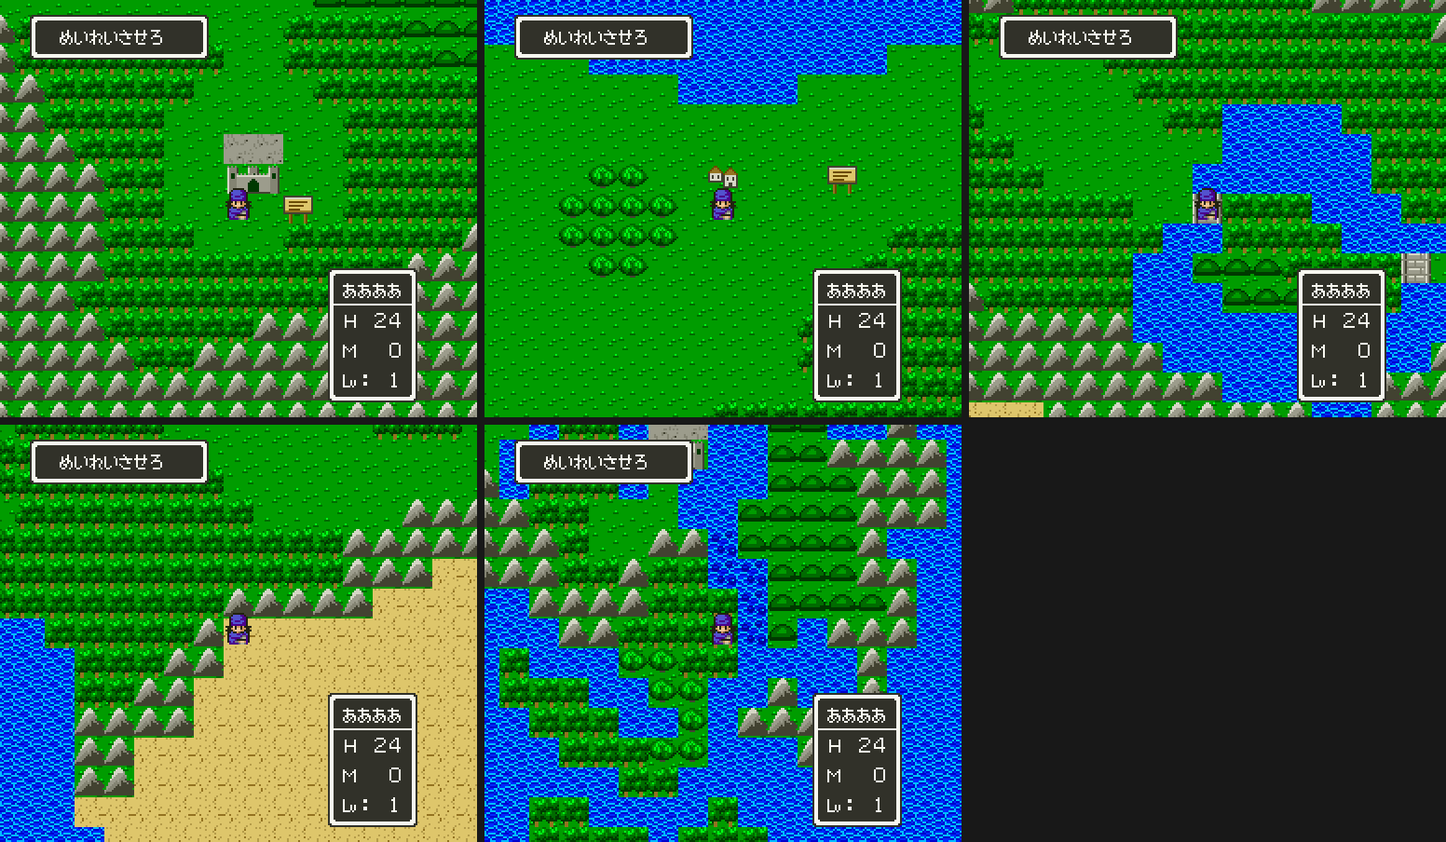
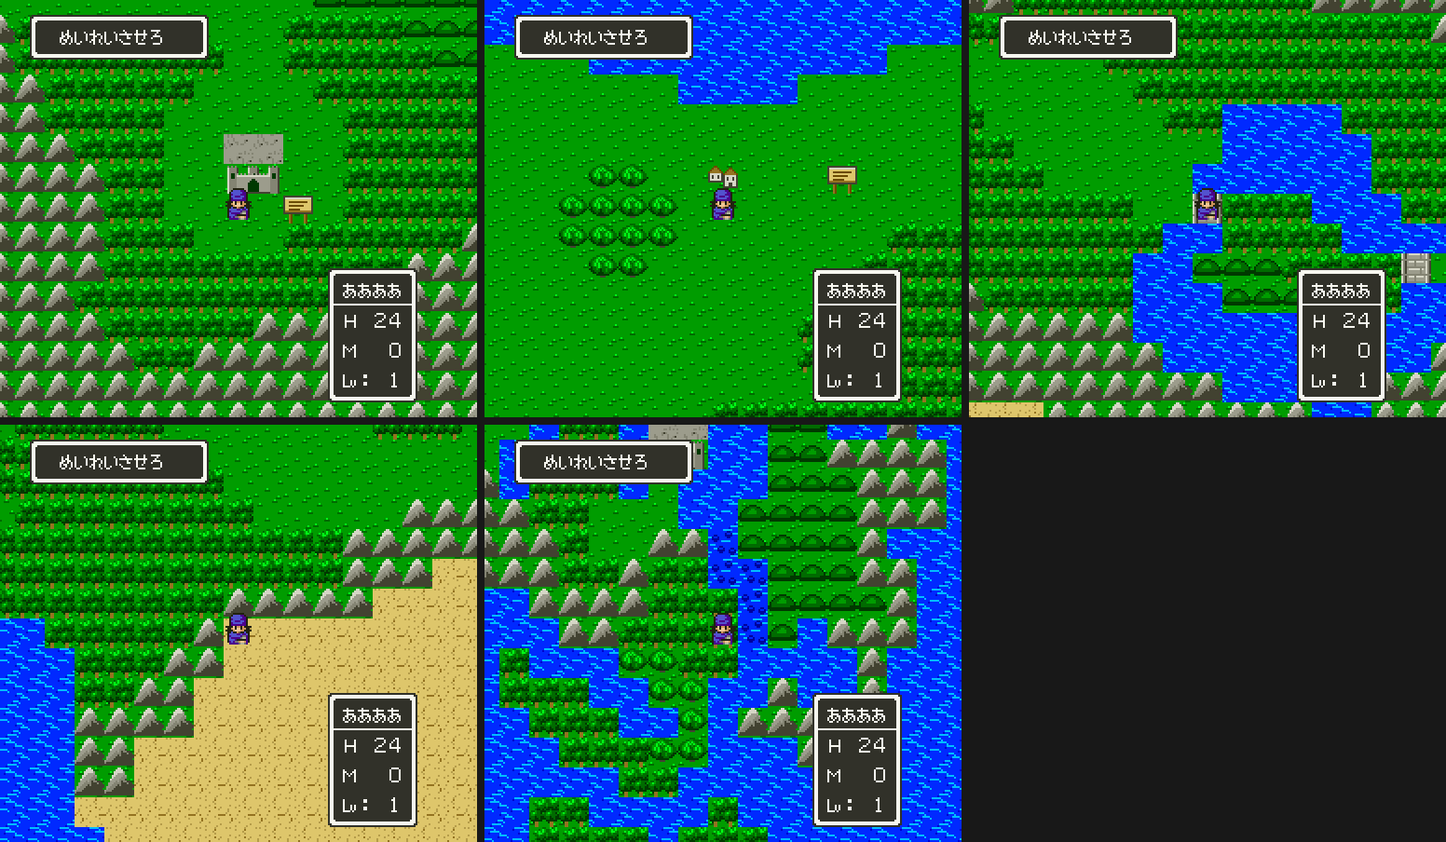
feat: FC 필드 바다를 DQ4 물결로(움직이는 바다 원본 01:A719 제자리, 세 세계 같은 원본)
dq4fieldgfx.water 가 water0 에셋을 2번 줄 색 11~13 으로 골라 water_files 로 넣고,
dq4fieldcheck 은 VRAM 바다 타일을 그 세계의 16벌(dq5gfx.water_frames)과 견준다.

diff --git a/sfc/dq4/tools/dq4fieldcheck.py b/sfc/dq4/tools/dq4fieldcheck.py
@@ -9,8 +9,9 @@ walks out of 01/00 into world 0:
            reef, signboard, field 3's hills) keeps the party on the neighbour
   gfx      stand at the views, save and dump VRAM and CGRAM: the BG tilemap of both layers around the party is the
            blocks of dq4fieldport.world with dq4fieldgfx's tiles and palette nibbles; the field tiles in VRAM are
-           dq4fieldgfx's (the sea pairs 4·5 and 20·21 turned by the same pixels, as 01:C790 turns them, in worlds
-           0 and 1; the animated 454-459 left out); CGRAM lines 2 and 3 colours 1-13 are one of the world's sets
+           dq4fieldgfx's (the animated 454-459 left out); the sea tiles 4·5·20·21 are one of the 16 frames
+           01:C5C8 makes of dq4fieldgfx.water in that world (dq5gfx.water_frames); CGRAM lines 2 and 3 colours
+           1-13 are one of the world's sets
 
   MESENCE=… LIBDIR=… python sfc/dq4/tools/dq4fieldcheck.py --rom work/dq4-groups/groups.sfc --out work/dq4-fieldcheck
 
@@ -35,6 +36,7 @@ import dq4fieldport  # noqa: E402
 from dq4environmentromcheck import dump  # noqa: E402
 from dq4groupcheck import field_scene  # noqa: E402
 from dq5fieldwrite import split  # noqa: E402
+from dq5gfx import water_frames  # noqa: E402
 from kr_patch.fc import ines  # noqa: E402
 
 # FC block kind -> whether the party walks onto it from land.
@@ -76,21 +78,13 @@ def _word(vram, base, col, row):
     return vram[i * 2] | vram[i * 2 + 1] << 8
 
 
-def _rows(tile):
-    pixels = dq4fieldgfx.decode(tile)
-    return [pixels[r * 8:r * 8 + 8] for r in range(8)]
+def sea_frame(got, frames):
+    """Index of the frame (128 bytes: tiles 4, 5, 20, 21) the VRAM sea tiles got show; None when none."""
+    return frames.index(got) if got in frames else None
 
 
-def rotation(got, want):
-    """Pixels k (0-15) by which every 16-pixel row of the tile pairs in got is turned from want (lists of (left,
-    right) 32-byte tiles); None when no k fits them all."""
-    rows = [(g1 + g2, w1 + w2) for (ga, gb), (wa, wb) in zip(got, want)
-            for g1, g2, w1, w2 in zip(_rows(ga), _rows(gb), _rows(wa), _rows(wb))]
-    return next((k for k in range(16) if all(g == w[k:] + w[:k] for g, w in rows)), None)
-
-
-def compare_gfx(vram, cgram, cell, world, generated, palettes, sea_turns=True):
-    """Results of a gfx view: tilemap cells that match, field tiles that match, sea turn, CGRAM set."""
+def compare_gfx(vram, cgram, cell, world, generated, palettes, frames):
+    """Results of a gfx view: tilemap cells that match, field tiles that match, sea frame, CGRAM set."""
     tiles, nibbles, _, blocks = generated
     defs = {b["index"]: b for b in blocks}
     defs[dq4fieldport.SEA] = {"lower": list(dq4fieldgfx.SEA_TILES), "upper": [0] * 4}
@@ -115,14 +109,12 @@ def compare_gfx(vram, cgram, cell, world, generated, palettes, sea_turns=True):
 
     fixed = [t for t in range(len(tiles) // 32) if t not in dq4fieldgfx.SEA_TILES and t not in ANIMATED]
     same = sum(vtile(t) == tiles[t * 32:t * 32 + 32] for t in fixed)
-    pairs = ((4, 5), (20, 21))
-    turned = rotation([tuple(vtile(t) for t in p) for p in pairs], [tuple(tiles[t * 32:t * 32 + 32] for t in p) for p in pairs])
+    sea = sea_frame(b"".join(vtile(t) for t in dq4fieldgfx.SEA_TILES), frames)
     lines = [cgram[(16 * line + i) * 2] | cgram[(16 * line + i) * 2 + 1] << 8 for line in (2, 3) for i in range(1, 14)]
     sets = [k for k, row in enumerate(palettes) if row[0:13] + row[15:28] == lines]
     return {"lower": [best[0], len(cells)], "upper": [upper, len(cells)], "tiles": [same, len(fixed)],
-            "sea_turn": turned, "palette_set": sets[0] if sets else None,
-            "ok": best[0] == upper == len(cells) and same == len(fixed) and (turned is not None or not sea_turns)
-            and bool(sets)}
+            "sea_frame": sea, "palette_set": sets[0] if sets else None,
+            "ok": best[0] == upper == len(cells) and same == len(fixed) and sea is not None and bool(sets)}
 
 
 def probes(grid, props, entrances, kinds=KINDS, centre=CENTER):
@@ -172,6 +164,7 @@ def main():
     generated = dq4fieldgfx.generate(args.dq5.read_bytes())
     palettes = original(Rom(args.dq5.read_bytes()))["palettes"]
     world_sets = {0: palettes["world0"], 1: [dq4fieldgfx.world1_set(palettes)], 2: palettes["world2"]}
+    sea = dq4fieldgfx.water(palettes)
 
     def scenes(field):
         """(callable, args) of the scenes of an FC field."""
@@ -200,8 +193,8 @@ def main():
             if got != {"field": list(cell)}:
                 return scene, {"got": got, "ok": False}
             _, vram, cgram = dump(mesence, rom, out / scene / "field.mss", out / scene / "dump")
-            # World 2 turns its sea by another routine (01:C66B), not the pairs of 01:C790.
-            return scene, {"got": got, **compare_gfx(vram, cgram, cell, world, generated, world_sets[w], w != 2)}
+            return scene, {"got": got, **compare_gfx(vram, cgram, cell, world, generated, world_sets[w],
+                                                     water_frames(sea, w))}
 
         def run_probe(kind, target, start, d):
             name = f"{prefix}terrain-{kind:02X}-{d}"

diff --git a/sfc/dq4/tools/dq4fieldgfx.py b/sfc/dq4/tools/dq4fieldgfx.py
@@ -14,9 +14,9 @@ nibbles, and each world has its own lines 2 and 3 (01:A6A3): world 1 (FC field 1
 1-13, as its own lines are DQ5's snow; world 2 (FC field 3, 闇の世界) keeps DQ5's dark lines, which colour the same
 indices darker.
 
-The sea stays DQ5's block 0 and its moving water: the game turns tiles 4, 5, 20 and 21 a pixel at a time from an
-uncompressed copy at 01:A719 (01:C5C8 points [$A5] there, 01:C746 makes 16 turns into 7E:C000), not from the field
-tiles, and dq5fieldgfxwrite.py does not write that copy. The reef is the DQ4 rocks on the upper layer over that sea.
+The sea stays DQ5's block 0, and its moving water is the DQ4 water asset (water()): the game makes tiles 4, 5,
+20 and 21 from an uncompressed source at 01:A719 (01:C5C8 makes 16 frames into 7E:C000), not from the field tiles,
+so the water goes in as dq5fieldgfxwrite's water_files. The reef is the DQ4 rocks on the upper layer over that sea.
 
   python sfc/dq4/tools/dq4fieldgfx.py preview -o work/fieldgfx/preview.png
 """
@@ -42,6 +42,7 @@ DAY_SET = 2
 LINES = (0, 1)  # nibble n is palette line n + 2
 COLOURS = range(1, 14)
 SEA_TILES = (4, 5, 20, 21)
+WATER_FILE = "sea-dq4.bin"
 REEF = 0x0A
 # Art colours (drawn for town maps) moved onto DQ5 field colours before the nearest colour is taken; key None is for
 # every asset. The green ramp (dq4environmentart bank 1) goes one step darker onto DQ5's four field greens, so grass
@@ -49,7 +50,10 @@ REEF = 0x0A
 # pale grey and reads as snow, so the sand takes DQ5's sand ramp.
 TONES = {None: {"102900": "003800", "054600": "003800", "007200": "006800", "0ba100": "006800",
                 "3fb800": "00a000", "2dff39": "00a000", "20e30e": "00f818", "9cff8c": "00f818"},
-         "dirt": {"f7f7d6": "d8c068", "e2cd7a": "b09848", "cda23c": "907020"}}
+         "dirt": {"f7f7d6": "d8c068", "e2cd7a": "b09848", "cda23c": "907020"},
+         # Both specks of the water are nearest to the blue of its ground and would vanish into it; they take DQ5's
+         # darker and lighter sea blues.
+         "water0": {"0042ff": "0000ce", "0073ff": "00bdff"}}
 
 
 def _rgb(colour):
@@ -144,6 +148,14 @@ def rocks():
     return [[s if s != w else None for s, w in zip(srow, wrow)] for srow, wrow in zip(shoal, water)]
 
 
+def water(palettes):
+    """Moving-sea source (dq5fieldgfxwrite water_files: tiles 4, 5, 20 and 21, 128 bytes) of the DQ4 water asset
+    on line 2 (the sea tiles' nibble 0) of the world-0 day colours. The asset wraps at 16 pixels both ways, so
+    world 0's turn right, world 1's turn left and world 2's push up all run without a seam."""
+    sea = {0: line_colours(palettes)[0]}
+    return b"".join(encode(quantize(q, sea)[1]) for q in quarters(_pixels(assets()["water0"], "water0")))
+
+
 def generate(rom):
     """(tiles, tile palette nibbles, tile attributes, dq5fieldtables blocks) for a DQ5 ROM: its 512 field tiles,
     then the new tiles; and the DQ5 blocks of dq4fieldport.OWN_BLOCKS."""
@@ -201,6 +213,9 @@ def gfx_doc(dq5, folder):
     # dq5fieldgfxwrite takes 1,024 attributes once tiles grow; past the tiles, those of tile − 512, as it fills them.
     doc.update(tile_palettes=nibbles, tile_attributes=attrs + attrs[len(attrs) - TILES:TILES])
     doc["palettes"]["world1"] = [world1_set(doc["palettes"])]
+    # One source for the three worlds: dq5fieldgfxwrite writes it in place at 01:A719, with no world hook.
+    (folder / WATER_FILE).write_bytes(water(doc["palettes"]))
+    doc["water_files"] = {k: WATER_FILE for k in doc["water_files"]}
     gfx = folder / "fieldgfx.json"
     gfx.write_text(json.dumps(doc) + "\n", encoding="utf-8")
     table = folder / "blocks.json"
@@ -223,6 +238,9 @@ def render(rom, fc_grid, x0, y0, w, h, field=0):
     from dq5map import Rom
     tiles, nibbles, _, blocks = generate(rom)
     palettes = original(Rom(rom))["palettes"]
+    tiles, sea = bytearray(tiles), water(palettes)
+    for i, t in enumerate(SEA_TILES):
+        tiles[t * 32:t * 32 + 32] = sea[i * 32:i * 32 + 32]
     palettes = {**palettes, "world0": {DAY_SET: {0: palettes["world0"][DAY_SET], 1: world1_set(palettes),
                                                  2: palettes["world2"][0]}[dq4fieldport.WORLDS[field]]}}
     lines = line_colours(palettes)

diff --git a/sfc/dq4/tools/test_dq4fieldgfx.py b/sfc/dq4/tools/test_dq4fieldgfx.py
@@ -1,5 +1,5 @@
-"""Without a ROM, the 4bpp tile coding, the colour choice and the sea turn check; with rom/dq5.sfc, the generated
-tiles and blocks keep DQ5's tiles, terrain and attributes."""
+"""Without a ROM, the 4bpp tile coding, the colour choice and the sea frame check; with rom/dq5.sfc, the generated
+tiles and blocks keep DQ5's tiles, terrain and attributes, and the sea takes DQ5's sea colours."""
 
 import sys
 import unittest
@@ -51,16 +51,14 @@ class TileTest(unittest.TestCase):
         q = gfx.quarters(image)
         self.assertEqual((q[0][0], q[1][0], q[2][0], q[3][63]), ((0, 0, 0), (8, 0, 0), (0, 8, 0), (15, 15, 0)))
 
-    def test_sea_turn(self):
-        left, right = gfx.encode(list(range(16)) * 4), gfx.encode([0] * 64)
-        rows = [list(range(8)) + [0] * 8, list(range(8, 16)) + [0] * 8] * 4
-
-        def turned(k):
-            out = [r[k:] + r[:k] for r in rows]
-            return gfx.encode([v for r in out for v in r[:8]]), gfx.encode([v for r in out for v in r[8:]])
-
-        self.assertEqual(check.rotation([turned(3)], [(left, right)]), 3)
-        self.assertIsNone(check.rotation([(right, left[::-1])], [(left, right)]))
+    def test_sea_frame(self):
+        sys.path.insert(0, str(gfx.DQ5_TOOLS))
+        from dq5gfx import water_frames
+        src = b"".join(gfx.encode([(i + q) % 16 for i in range(64)]) for q in range(4))
+        for world in (0, 1, 2):
+            frames = water_frames(src, world)
+            self.assertEqual(check.sea_frame(frames[4], frames), 4)
+        self.assertIsNone(check.sea_frame(bytes(128), water_frames(src, 0)))
 
 
 @unittest.skipUnless(ROM.is_file(), "local source ROM not present")
@@ -97,6 +95,13 @@ class GenerateTest(unittest.TestCase):
             want = [self.original["tile_attributes"][u or lo] for lo, u in zip(lower, upper)]
             got = [self.attrs[u or lo] for lo, u in zip(block["lower"], block["upper"])]
             self.assertEqual(got, want, f"{kind:02X}")
+
+    def test_sea_takes_dq5_sea_colours(self):
+        raw = gfx.water(self.original["palettes"])
+        self.assertEqual(len(raw), 128)
+        used = {v for q in range(4) for v in gfx.decode(raw[q * 32:q * 32 + 32])}
+        sea = {v for t in gfx.SEA_TILES for v in gfx.decode(self.original["tiles"][t * 32:t * 32 + 32])}
+        self.assertEqual(used, sea)
 
     def test_reef_is_rocks_over_the_sea(self):
         block = next(b for b in self.blocks if b["index"] == port.OWN_BLOCKS[gfx.REEF])

diff --git a/sfc/dq4/todo.md b/sfc/dq4/todo.md
@@ -6,7 +6,7 @@
 
 SFC DQ5 엔진에 넣을 포팅용 그래픽. 시작점은 [handoff.md](handoff.md). FC 원작 분석의 남은 일은 [fc/dq4/todo.md](../../fc/dq4/todo.md) 에 있습니다.
 
-- **환경 그래픽**: [그룹 연결](docs/dq4-environment-format.md#그룹-연결)로 1장 バトランド 성·イムル·古井戸の底·`30`·`41`·우물 아래를 새 그룹 `36`~`3B` 에, 2장 サントハイム·テンペ·フレノール 를 한 그룹 `3D` 에 넣고 계단·성문·필드 출입을 잇고 [인물](docs/dq4-environment-format.md#인물)을 놓았습니다(그림은 DQ5 마을 사람, 대사는 일본어 원문 임시로 DQ5 메시지 3,200개 뒤 `C80`~ 에 덧붙여 대화 스크립트로 띄움). 가게·여관·교회를 DQ5 시설에 이었습니다(맡기는 곳은 두 마을에 없어 미실측)([가게](docs/dq4-environment-format.md#가게)). [상자](docs/dq4-environment-format.md#상자)·タンス·つぼ 20개를 DQ5 표에 넣었습니다. 다음은 이벤트(FC 발밑 특수 처리 포함), 나머지 FC 그룹을 새 그룹으로 옮기기(빌린 자리 40곳에는 원래 DQ5 인물·출구가 남음), 2장 이야기 플래그에 걸린 인물·가게, 1장 빌드의 새 맵 레코드 뱅크 늘리기(`3A` 가 `3A:FFA4` 까지 참), [FC 필드 0](docs/dq4-field-format.md) 다음의 필드 일(바다 그림은 움직이는 바다 원본 `01:A719` 를 쓰는 dq5 도구가 있어야 함, 물가 이음새, 독늪 피해의 장비·레벨 차이·배로 암초 실측, [FC 필드 1·3](docs/dq4-field-format.md#fc-필드-13) 에서 들어가는 FC 그룹과 필드 3 결계 막이, 조우 구역·필드 곡·배·열기구·ルーラ 행선지), 던전·탑 시트의 남은 모양 블록(풀 무늬 바닥) 그리기, 나머지 맵 삽입(문 물체 항목은 뱅크 3D 로 옮겨 6KB 남짓 남았고, 맵 레코드는 뱅크 3F 에 약 24KB 남음. 바꾼 맵의 문 이벤트·どうぐ 열쇠·열쇠 없는 잠긴 문·성문 열기 길의 DB 읽기는 미실측), 열쇠 아이템을 DQ4 열쇠에 맞추기(잠금 0·1·2 는 とびら 로 실측함).
+- **환경 그래픽**: [그룹 연결](docs/dq4-environment-format.md#그룹-연결)로 1장 バトランド 성·イムル·古井戸の底·`30`·`41`·우물 아래를 새 그룹 `36`~`3B` 에, 2장 サントハイム·テンペ·フレノール 를 한 그룹 `3D` 에 넣고 계단·성문·필드 출입을 잇고 [인물](docs/dq4-environment-format.md#인물)을 놓았습니다(그림은 DQ5 마을 사람, 대사는 일본어 원문 임시로 DQ5 메시지 3,200개 뒤 `C80`~ 에 덧붙여 대화 스크립트로 띄움). 가게·여관·교회를 DQ5 시설에 이었습니다(맡기는 곳은 두 마을에 없어 미실측)([가게](docs/dq4-environment-format.md#가게)). [상자](docs/dq4-environment-format.md#상자)·タンス·つぼ 20개를 DQ5 표에 넣었습니다. 다음은 이벤트(FC 발밑 특수 처리 포함), 나머지 FC 그룹을 새 그룹으로 옮기기(빌린 자리 40곳에는 원래 DQ5 인물·출구가 남음), 2장 이야기 플래그에 걸린 인물·가게, 1장 빌드의 새 맵 레코드 뱅크 늘리기(`3A` 가 `3A:FFA4` 까지 참), [FC 필드 0](docs/dq4-field-format.md) 다음의 필드 일(물가 이음새, 독늪 피해의 장비·레벨 차이·배로 암초 실측, [FC 필드 1·3](docs/dq4-field-format.md#fc-필드-13) 에서 들어가는 FC 그룹과 필드 3 결계 막이, 조우 구역·필드 곡·배·열기구·ルーラ 행선지), 던전·탑 시트의 남은 모양 블록(풀 무늬 바닥) 그리기, 나머지 맵 삽입(문 물체 항목은 뱅크 3D 로 옮겨 6KB 남짓 남았고, 맵 레코드는 뱅크 3F 에 약 24KB 남음. 바꾼 맵의 문 이벤트·どうぐ 열쇠·열쇠 없는 잠긴 문·성문 열기 길의 DB 읽기는 미실측), 열쇠 아이템을 DQ4 열쇠에 맞추기(잠금 0·1·2 는 とびら 로 실측함).
 - **1장 진행**: [1장 첫머리](docs/dq4-chapter1-format.md)는 검은 화면의 장 제목 상자·서술, 왕좌의 방 연출·낮과 밤 인물, 1장 그룹 인물의 1장 시작 상태 대사, 이무르 밤·프레아·감옥 재회까지입니다. 새 게임은 NDS [서장](docs/dq4-prologue-format.md)(수련·개구리·신시아·저녁)으로 시작해 1장으로 넘어옵니다. 서장의 개구리·신시아 그림(마지막 순위), 서술문 줄 칸 수 재기, 맵을 밝히기 전 검은 틈 줄이기, 성 앞 상자, 우물 이후 진행, DQ5 시스템 메시지 중 필드 81개 밖의 것과 전투 메시지의 조사([조사 코드](docs/dq4-josa-format.md)), 인물끼리 가로 2셀 안으로 못 다가가는 조건의 코드 확인, 빌려 쓴 연출 플래그 `219E` bit2 와 덮은 DQ5 메시지(`1D1`~`1D3`, `6C6`~`6DB`)의 자리 정리가 남았습니다.
 - **게임 안 창 한글**: [조사](docs/dq4-window-text-format.md) 결과 창 글자는 가나 칸 100칸 남짓과, [BG3 타일맵을 옮겨](docs/dq4-window-text-format.md#bg3-타일맵-옮기기) 비운 `180`~`1FF` 128칸을 한글 칸으로 씁니다. 필드·전투 상태 창의 주인공 이름은 [상태 창 이름](docs/dq4-window-text-format.md#상태-창-이름)으로 찍었습니다. つよさ·「누구」 고르기 창의 이름(`04:B79B`)도 같은 렌더러로 찍었습니다. 전투 메시지 이름과 쓰러짐 등의 이름 색도 찍었습니다. 도구 목록은 [창 글자](docs/dq4-window-text-format.md#창-글자) 엔진(이름 표 → Galmuri9 그림, 자리 묶음 슬롯, NMI 전용 대기열)으로 한글이 됐고, 주문 목록(필드·전투)과 명령 창·つよさ·さくせん·「どうする」·전투 명령 창·창 제목의 고정 문구도 켰고, 전투 몬스터 목록·전투 도구 창·가게 창도 켰고, 강함 보기 라벨·성별·직함, 교회·맡기는 곳·예/아니요 창도 켰습니다. 필드에서는 [가나 칸을 슬롯으로](docs/dq4-window-text-format.md#가나-칸-슬롯) 쓰고 전투에 들어가면 되돌립니다. 한글 표에 없는 물건 이름은 Galmuri9 가나로 그립니다. 디버그로 보이는 창, 창 열 수를 넘는 한글 없는 이름, 메시지와 함께 뜨는 목록에 9~10열 이름이 둘 넘을 때 메시지 창에 비치는 것이 남았습니다. [창 글자 깨짐 검사](docs/dq4-window-text-format.md#창-글자-깨짐-검사)(`dq4windowcheck.py`)를 창 글자를 바꿀 때마다 돌립니다. 석 자 출력 `D1` 의 나머지 창(강함 보기 성별 밖에는 흔한 장면에서 불리지 않음), 주문 연출이 전투 이름 칸 `1D0`~ 을 덮는지(주인공 주문 다섯과 공격·メラ·ルカニ 는 덮지 않음, 나머지 연출), ベネット 지도 장면 뒤 이름 다시 그리기, 나머지 한글 타일 그려 넣기, BG3SC 를 직접 바꾸는 특수 장면과 마을 6곳 이벤트 전투의 실측, 창 글자 크기 결정(목록은 8점 높이 글꼴이 칸을 절반만 씀), 이름 자리 표시 코드 가르기, 이름 목록과 메시지가 함께 뜨는 장면 실측, 이름을 붙여 그리기가 남았습니다.
 - **메뉴 메시지 후속**: [메뉴 메시지](docs/dq4-menu-format.md#메뉴-메시지)를 옮긴 뒤 원래 보행 메시지 자리 `07:D77C`~`0C:8020` 을 색인 밖에서 읽는 코드가 있는지, 글자 그림 뒤 `08:F277`~`0C:8020` 의 쓰임.

diff --git a/sfc/dq4/journal/2026-10-30-54-field-sea.md b/sfc/dq4/journal/2026-10-30-54-field-sea.md
@@ -1,0 +1,49 @@
+# 2026-10-30-54: 필드 바다를 DQ4 물결로
+
+[48번 일지](2026-10-30-48-field-gfx.md)와 [51번 일지](2026-10-30-51-field-worlds12.md)에서 FC 필드 셋을 DQ5 세계 0·1·2 에 DQ4 그림으로 넣었지만, 바다만은 DQ5 의 물 그대로였습니다. 움직이는 바다 타일 4·5·20·21 은 필드 타일이 아니라 `01:A719` 의 128바이트 원본으로 만들어지고, 그 원본을 쓰는 도구가 없었기 때문입니다. dq5 트랙이 [`water_files`](../../dq5/docs/dq5-build-format.md#필드-그림-dq5fieldgfx1)를 더해([dq5 일지](../../dq5/journal/2026-10-30-31-seaanim.md)) 이번에 바다도 DQ4 물결로 바꿨습니다. 결과는 [dq4-field-format.md 「바다」](../docs/dq4-field-format.md#바다)에 있습니다.
+
+## 1. 바다 원본이 하는 일
+
+필드를 불러올 때 `01:C5C8` 이 원본 128바이트(타일 4·5·20·21 을 이 차례로 이은 4bpp)로 16벌을 `7E:C000` 에 만듭니다. 세계 0 은 4·5 와 20·21 을 두 개씩 이어 오른쪽으로, 세계 1 은 왼쪽으로 한 픽셀씩 돌리고, 세계 2 는 16×16 을 위로 한 줄씩 밉니다. 몇 프레임마다 그 가운데 한 벌이 VRAM 워드 `2040`·`2140` 에 올라갑니다.
+
+그래서 원본 그림은 돌리는 방향으로 이어져야 합니다. 세계 0·1 은 가로로, 세계 2 는 세로로 이어져야 16픽셀째에 경계가 보이지 않습니다.
+
+## 2. 그림
+
+프로젝트의 물결 에셋 `water0`(`dq4environmentart.py`)을 그대로 씁니다. 이 에셋은 물결 줄을 x 를 16 으로 나눈 나머지 자리에 그려 좌우 끝이 이어지고, 두 줄짜리 물결이 16줄 안에서 끝나 위아래도 이어집니다. 그래서 한 그림으로 세 방향을 모두 맞춥니다.
+
+색은 바다 타일의 니블 0(2번 줄)에서 고릅니다. DQ5 의 바다 타일 넷을 풀어 보니 2번 줄 색 11·12·13 만 썼습니다. 에셋을 세계 0 낮 벌의 2번 줄 색 1~13 가운데 가장 가까운 색으로 고르면 바탕이 색 12, 물결 줄이 색 13 이 됩니다. 처음 고른 결과는 색 12 가 222점, 13 이 34점이라 물결 끝의 점 둘이 바탕에 묻혀 밋밋했습니다. 그 둘(`0042ff`·`0073ff`)을 DQ5 의 어두운 바다 색 11 과 밝은 색 13 으로 옮기자(`TONES`) 물결 끝에 그늘과 빛이 생겼습니다. 이제 색 12 가 206, 13 이 42, 11 이 8 점입니다.
+
+## 3. 세계 2
+
+세계 2 는 闇の世界 라 DQ5 의 어두운 벌을 그대로 둡니다(51번 일지). 같은 색 번호가 보라색이 되므로, 바다를 DQ5 무늬로 둘지 DQ4 물결로 바꿀지를 세계 2 색으로 나란히 그려 보고 정했습니다. DQ5 세계 2 의 바다도 같은 색 11~13 의 보라라 색감은 같고 무늬만 다릅니다. 세계 2 의 땅은 이미 DQ4 그림이므로 바다도 DQ4 물결로 맞췄습니다.
+
+그러면 세 세계의 원본이 같습니다. `dq5fieldgfxwrite.py` 는 세 원본이 같으면 `01:A719` 제자리에 쓰므로, 세계 고르기 훅도 `--water-at` 자리도 들지 않습니다. 그룹 롬과 1장 롬 모두 `01:C5CB` 의 12바이트가 원래 롬 그대로였고 `01:A719` 가 새 원본과 같았습니다. 그룹 빌드와 1장 빌드의 다른 패치와 자리를 다툴 일도 없습니다.
+
+## 4. 넣는 곳
+
+`dq4fieldgfx.gfx_doc` 이 DQ5 덤프의 `fieldgfx.json` 에 새 원본 `sea-dq4.bin` 을 쓰고 `water_files` 의 세 세계를 모두 그 파일로 둡니다. 그룹 빌드와 1장 빌드가 같은 `dq4fieldport.patch` 를 거치므로 둘 다 바다가 바뀝니다. 필드 타일 4·5·20·21 의 사본은 화면에 나오지 않으므로 DQ5 것 그대로 둡니다.
+
+## 5. 검사
+
+`dq4fieldcheck.py` 의 그림 장면은 이전에 VRAM 의 바다 타일이 롬의 필드 타일을 몇 픽셀 돌린 것인지 보았고, 세계 2 는 꼴이 달라 견주지 않았습니다. 이제는 VRAM 의 타일 4·5·20·21 이 새 원본으로 셈한 그 세계의 16벌(`dq5gfx.water_frames`) 가운데 하나인지 봅니다. 세계 2 도 같은 방법으로 견줍니다.
+
+16벌이 모두 차례로 도는지는 따로 봤습니다. 세 세계의 바다 옆(세계 0 (80,49), 세계 1 (46,57), 세계 2 (62,65))에 서서 880~1015프레임 매 프레임 VRAM 을 덤프했습니다(`dq5framelog.lua` → `dq5gfxdump.lua`). 세 세계 모두 매 프레임 바다 타일이 16벌 가운데 하나였고 16벌이 0→15 차례로 모두 보였습니다. 끝 프레임의 `7E:C000`~`C7FF` 도 셈한 16벌과 같았습니다. 그룹 롬과 1장 롬 모두 같았습니다. 16벌의 화면을 이어 보니 세 세계 모두 블록 경계에 끊김이 없었습니다.
+
+| 검사 | 결과 |
+| --- | --- |
+| `dq4groupbuild.py --out work/dq4-groups` | 성공 |
+| `dq4fieldcheck.py`(그룹 롬) | 39장면 통과, 바다 세계 0 벌 13·세계 1·2 벌 14 |
+| `dq4groupcheck.py`(그룹 롬) | 173장면 통과 |
+| `dq4chapter1.py build`(메뉴 롬 위) | 성공 |
+| `dq4fieldcheck.py`(1장 롬) | 39장면 통과 |
+| 16벌 차례(그룹 롬·1장 롬, 세 세계) | 모두 16벌 |
+
+![세계 0 의 다섯 그림 장면(바다는 DQ4 물결)](../images/dq4-field-gfx.webp)
+
+![세계 1(위)과 세계 2(아래)의 그림 장면](../images/dq4-field-worlds12.webp)
+
+## 남은 것
+
+- 움직이는 바다를 세계를 오가는 이벤트·ルーラ·탈것 장면에서 다시 만드는지는 이 롬에서 보지 않았습니다. 원본이 세 세계 같으므로 다시 만들어도 무늬는 같습니다.
+- 물가 이음새(땅과 바다가 반듯하게 맞닿음)와 암초 바위가 바다와 비슷한 색인 것은 그대로입니다.
